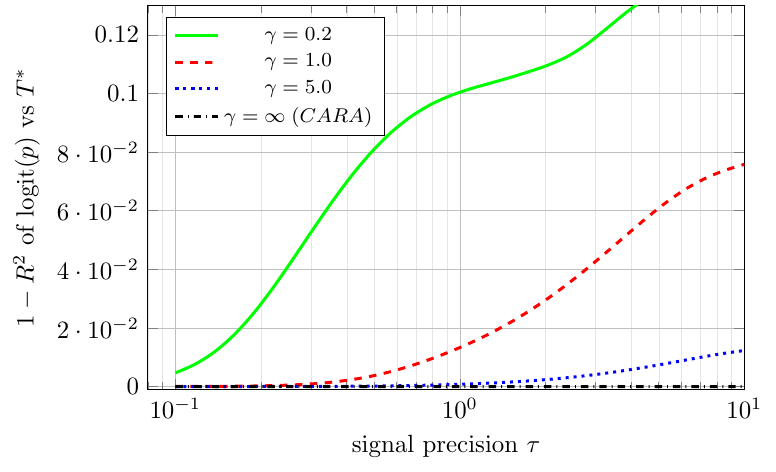
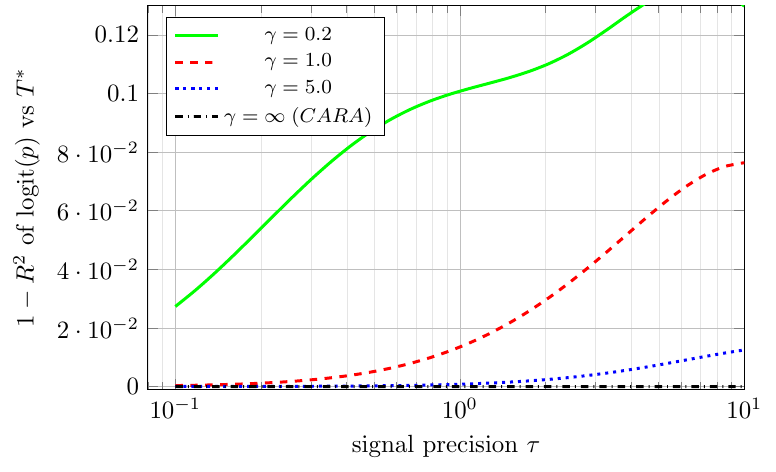
Knife-edge: GH N=80, smooth in visible range

diff --git a/figures/fig_knife_edge.tex b/figures/fig_knife_edge.tex
@@ -17,13 +17,13 @@
     legend style={font=\footnotesize},
     smooth,
 ]
-\addplot[green, solid, very thick] coordinates {(0.1,0.00466075) (0.11721,0.00757862) (0.137382,0.0118425) (0.161026,0.0176756) (0.188739,0.0251003) (0.221222,0.0338757) (0.259294,0.0435264) (0.30392,0.0534606) (0.356225,0.0631212) (0.417532,0.0720762) (0.48939,0.0800094) (0.573615,0.0867008) (0.672336,0.0920571) (0.788046,0.0961449) (0.923671,0.0991827) (1.08264,0.101485) (1.26896,0.103398) (1.48735,0.105299) (1.74333,0.107369) (2.04336,0.109665) (2.39503,0.112662) (2.80722,0.116923) (3.29034,0.122242) (3.85662,0.127706) (4.52035,0.13239) (5.29832,0.135772) (6.21017,0.137747) (7.27895,0.138413) (8.53168,0.137857) (10,0.136166)};
+\addplot[green, solid, very thick] coordinates {(0.1,0.0272947) (0.11721,0.032717) (0.137382,0.0386436) (0.161026,0.0449672) (0.188739,0.0515475) (0.221222,0.0582201) (0.259294,0.0648082) (0.30392,0.0711371) (0.356225,0.0770491) (0.417532,0.0824171) (0.48939,0.0871547) (0.573615,0.0912223) (0.672336,0.0946292) (0.788046,0.0974326) (0.923671,0.0997364) (1.08264,0.101688) (1.26896,0.103473) (1.48735,0.105312) (1.74333,0.10743) (2.04336,0.110034) (2.39503,0.11329) (2.80722,0.117234) (3.29034,0.12173) (3.85662,0.126457) (4.52035,0.130868) (5.29832,0.134501) (6.21017,0.13682) (7.27895,0.136885) (8.53168,0.134422) (10,0.129785)};
 \addlegendentry{$\gamma = 0.2$};
-\addplot[red, dashed, very thick] coordinates {(0.1,1.71848e-05) (0.11721,3.15261e-05) (0.137382,5.7386e-05) (0.161026,0.000103417) (0.188739,0.000184007) (0.221222,0.000322154) (0.259294,0.000552752) (0.30392,0.000925151) (0.356225,0.00150271) (0.417532,0.00235622) (0.48939,0.00354905) (0.573615,0.00511721) (0.672336,0.00705613) (0.788046,0.00932937) (0.923671,0.0119018) (1.08264,0.0147734) (1.26896,0.0179845) (1.48735,0.0215903) (1.74333,0.0256314) (2.04336,0.0301211) (2.39503,0.035044) (2.80722,0.0403545) (3.29034,0.0459664) (3.85662,0.0517325) (4.52035,0.0574221) (5.29832,0.0627257) (6.21017,0.0673215) (7.27895,0.0709951) (8.53168,0.0737429) (10,0.075781)};
+\addplot[red, dashed, very thick] coordinates {(0.1,0.000322861) (0.11721,0.000433724) (0.137382,0.000580655) (0.161026,0.000774338) (0.188739,0.00102811) (0.221222,0.00135834) (0.259294,0.00178487) (0.30392,0.0023312) (0.356225,0.00302464) (0.417532,0.00389621) (0.48939,0.00498018) (0.573615,0.00631335) (0.672336,0.00793398) (0.788046,0.0098804) (0.923671,0.0121895) (1.08264,0.0148947) (1.26896,0.0180246) (1.48735,0.0216003) (1.74333,0.0256332) (2.04336,0.0301213) (2.39503,0.0350441) (2.80722,0.0403556) (3.29034,0.0459746) (3.85662,0.0517743) (4.52035,0.0575714) (5.29832,0.0631206) (6.21017,0.0681172) (7.27895,0.0722153) (8.53168,0.0750633) (10,0.0763541)};
 \addlegendentry{$\gamma = 1.0$};
-\addplot[blue, dotted, very thick] coordinates {(0.1,8.9733e-07) (0.11721,1.5967e-06) (0.137382,2.81439e-06) (0.161026,4.90812e-06) (0.188739,8.45805e-06) (0.221222,1.43838e-05) (0.259294,2.41043e-05) (0.30392,3.97361e-05) (0.356225,6.42999e-05) (0.417532,0.000101853) (0.48939,0.000157405) (0.573615,0.000236492) (0.672336,0.000344443) (0.788046,0.000485843) (0.923671,0.000664928) (1.08264,0.00088718) (1.26896,0.00116112) (1.48735,0.00149866) (1.74333,0.00191372) (2.04336,0.00242024) (2.39503,0.00303077) (2.80722,0.00375536) (3.29034,0.00459995) (3.85662,0.00556427) (4.52035,0.00663923) (5.29832,0.00780394) (6.21017,0.0090215) (7.27895,0.010233) (8.53168,0.0113542) (10,0.0122861)};
+\addplot[blue, dotted, very thick] coordinates {(0.1,1.08385e-05) (0.11721,1.47932e-05) (0.137382,2.01683e-05) (0.161026,2.74607e-05) (0.188739,3.73336e-05) (0.221222,5.06669e-05) (0.259294,6.86224e-05) (0.30392,9.27228e-05) (0.356225,0.000124949) (0.417532,0.000167855) (0.48939,0.0002247) (0.573615,0.000299593) (0.672336,0.000397647) (0.788046,0.000525128) (0.923671,0.000689579) (1.08264,0.000899896) (1.26896,0.00116632) (1.48735,0.00150028) (1.74333,0.00191409) (2.04336,0.0024203) (2.39503,0.00303078) (2.80722,0.00375536) (3.29034,0.00459994) (3.85662,0.00556422) (4.52035,0.00663902) (5.29832,0.00780368) (6.21017,0.00902404) (7.27895,0.0102519) (8.53168,0.0114269) (10,0.0124815)};
 \addlegendentry{$\gamma = 5.0$};
-\addplot[black, dash dot, very thick] coordinates {(0.1,2.6286e-11) (0.11721,4.64654e-11) (0.137382,8.12582e-11) (0.161026,1.40458e-10) (0.188739,2.39768e-10) (0.221222,4.0369e-10) (0.259294,6.69645e-10) (0.30392,1.09349e-09) (0.356225,1.75561e-09) (0.417532,2.76691e-09) (0.48939,4.27105e-09) (0.573615,6.43916e-09) (0.672336,9.45554e-09) (0.788046,1.35024e-08) (0.923671,1.87618e-08) (1.08264,2.54504e-08) (1.26896,3.38711e-08) (1.48735,4.44376e-08) (1.74333,5.76426e-08) (2.04336,7.39896e-08) (2.39503,9.39243e-08) (2.80722,1.17768e-07) (3.29034,1.45639e-07) (3.85662,1.77347e-07) (4.52035,2.12302e-07) (5.29832,2.49435e-07) (6.21017,2.87199e-07) (7.27895,3.23669e-07) (8.53168,3.56776e-07) (10,3.84692e-07)};
+\addplot[black, dash dot, very thick] coordinates {(0.1,2.72929e-10) (0.11721,3.73758e-10) (0.137382,5.11539e-10) (0.161026,6.9961e-10) (0.188739,9.56009e-10) (0.221222,1.30502e-09) (0.259294,1.77928e-09) (0.30392,2.42231e-09) (0.356225,3.29194e-09) (0.417532,4.46442e-09) (0.48939,6.03942e-09) (0.573615,8.14598e-09) (0.672336,1.09491e-08) (0.788046,1.46567e-08) (0.923671,1.95263e-08) (1.08264,2.58697e-08) (1.26896,3.40544e-08) (1.48735,4.44988e-08) (1.74333,5.76575e-08) (2.04336,7.39922e-08) (2.39503,9.39246e-08) (2.80722,1.17768e-07) (3.29034,1.45639e-07) (3.85662,1.77347e-07) (4.52035,2.12302e-07) (5.29832,2.49436e-07) (6.21017,2.87208e-07) (7.27895,3.23723e-07) (8.53168,3.56979e-07) (10,3.85234e-07)};
 \addlegendentry{$\gamma = \infty\;(\text{CARA})$};
 \end{axis}
 \end{tikzpicture}
